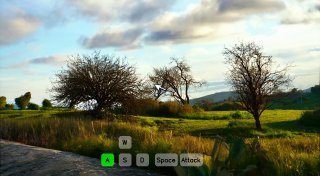
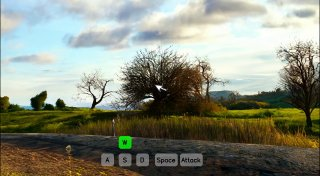
update mem display v2

diff --git a/index.html b/index.html
@@ -665,10 +665,10 @@
       'static/videos/30s/031.mp4',
       // 'static/videos/30s/000.mp4',
       'static/videos/30s/010_2.mp4',
+      'static/videos/30s/021.mp4',
       'static/videos/30s/004.mp4',
       'static/videos/30s/076.mp4',
       'static/videos/30s/002.mp4',
-      'static/videos/30s/021.mp4',
       // 'static/videos/30s/091.mp4',
       'static/videos/30s/025.mp4'
     ];

diff --git a/extract_frames.py b/extract_frames.py
@@ -28,20 +28,20 @@ N_STRIP = 6
 MEMORY_VIDEOS = {
     # key          : path
     # First-person 30s
-    "30s_031"  : "static/videos/30s/031.mp4",
-    "30s_010_2"  : "static/videos/30s/010_2.mp4",
+    # "30s_031"  : "static/videos/30s/031.mp4",
+    # "30s_010_2"  : "static/videos/30s/010_2.mp4",
     "30s_004"  : "static/videos/30s/004.mp4",
-    "30s_076"  : "static/videos/30s/076.mp4",
-    "30s_002"  : "static/videos/30s/002.mp4",
-    "30s_021"  : "static/videos/30s/021.mp4",
-    "30s_091"  : "static/videos/30s/091.mp4",
-    "30s_025"  : "static/videos/30s/025.mp4",
+    # "30s_076"  : "static/videos/30s/076.mp4",
+    # "30s_002"  : "static/videos/30s/002.mp4",
+    # "30s_021"  : "static/videos/30s/021.mp4",
+    # "30s_091"  : "static/videos/30s/091.mp4",
+    # "30s_025"  : "static/videos/30s/025.mp4",
     # First-person 1min
-    "1min_091" : "static/videos/1min/091.mp4",
-    "1min_094" : "static/videos/1min/094.mp4",
-    "1min_097" : "static/videos/1min/097.mp4",
-    "1min_000" : "static/videos/1min/000.mp4",
-    "1min_001" : "static/videos/1min/001.mp4",
+    # "1min_091" : "static/videos/1min/091.mp4",
+    # "1min_094" : "static/videos/1min/094.mp4",
+    # "1min_097" : "static/videos/1min/097.mp4",
+    # "1min_000" : "static/videos/1min/000.mp4",
+    # "1min_001" : "static/videos/1min/001.mp4",
     # Third-person
     # "tp_91"  : "static/videos/tp_demo/video_lingbot-I2V-A14B_91_action.mp4",
     # "tp_99"  : "static/videos/tp_demo/video_lingbot-I2V-A14B_99_action.mp4",
@@ -94,14 +94,16 @@ def process_video(key, path):
             cv2.imwrite(out_path, thumb, [cv2.IMWRITE_JPEG_QUALITY, 80])
     # import pdb; pdb.set_trace()
     # ── Early frame (memory reference, t ≈ 3s or 5% of duration) ─────────
-    t_early = min(3.0 / duration, 0.05) if duration > 0 else 0.03 #duration=31.0625
+    # t_early = min(3.0 / duration, 0.05) if duration > 0 else 0.03 #duration=31.0625
+    t_early = 0.25#0.05
     frame_early = extract_frame_at(cap, total_frames, t_early)
     if frame_early is not None:
         thumb = resize_to_width(frame_early, THUMB_W)
         cv2.imwrite(os.path.join(OUT_DIR, f"{key}_early.jpg"), thumb, [cv2.IMWRITE_JPEG_QUALITY, 85])
 
     # ── Late frame (current scene at 95% of duration) ────────────────────
-    frame_late = extract_frame_at(cap, total_frames, 0.95)
+    t_end = 0.67#0.95
+    frame_late = extract_frame_at(cap, total_frames, t_end)
     if frame_late is not None:
         thumb = resize_to_width(frame_late, THUMB_W)
         cv2.imwrite(os.path.join(OUT_DIR, f"{key}_late.jpg"), thumb, [cv2.IMWRITE_JPEG_QUALITY, 85])
